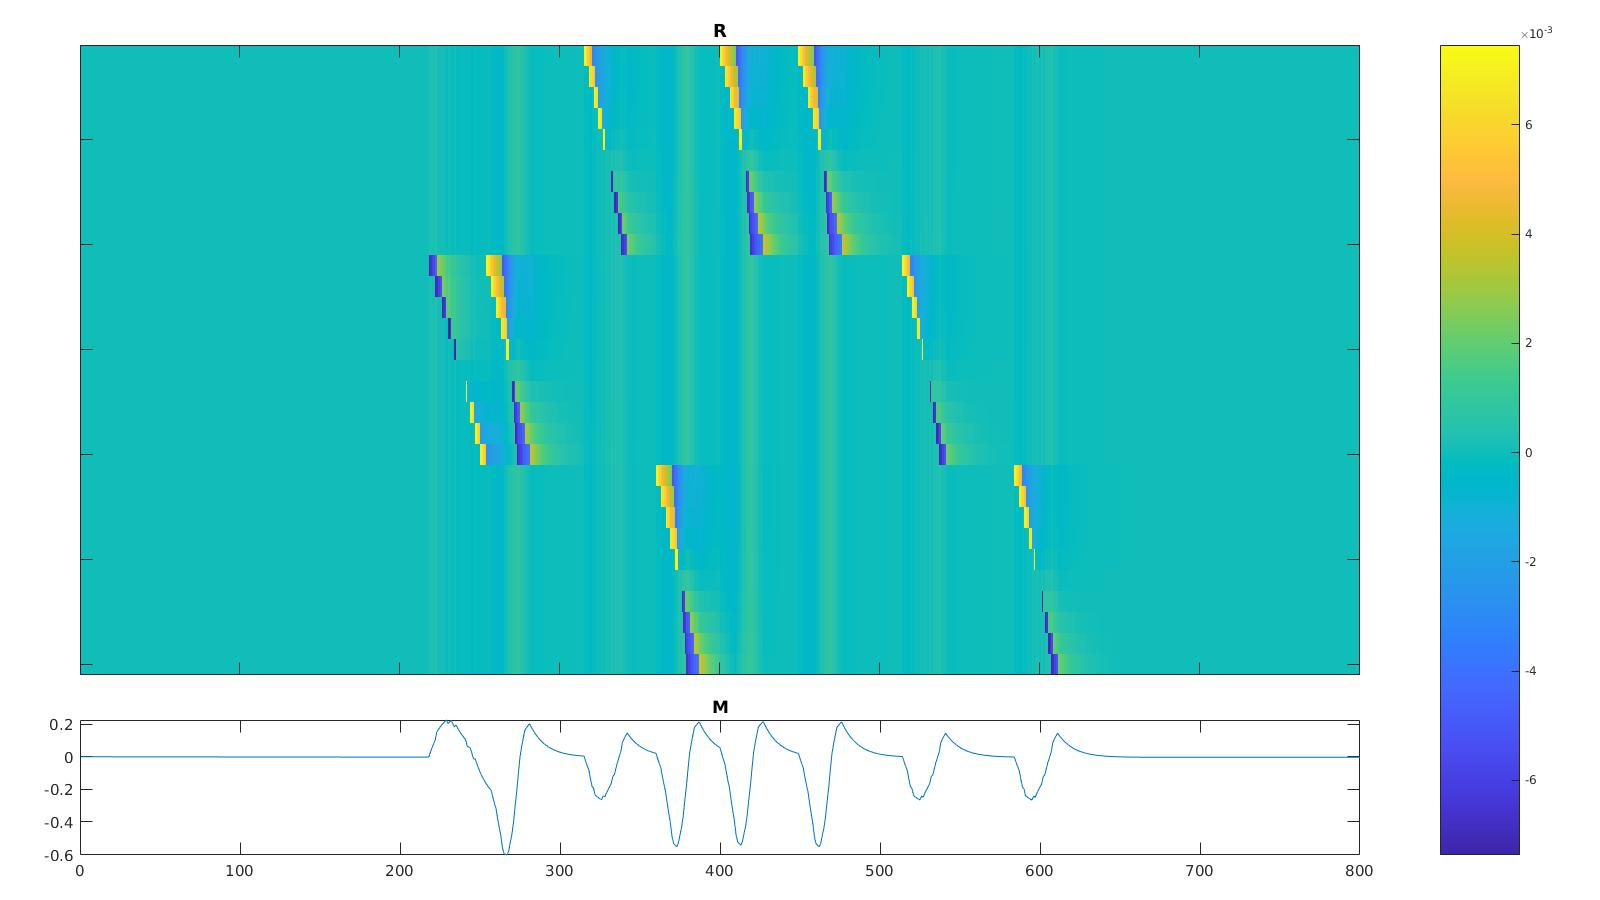
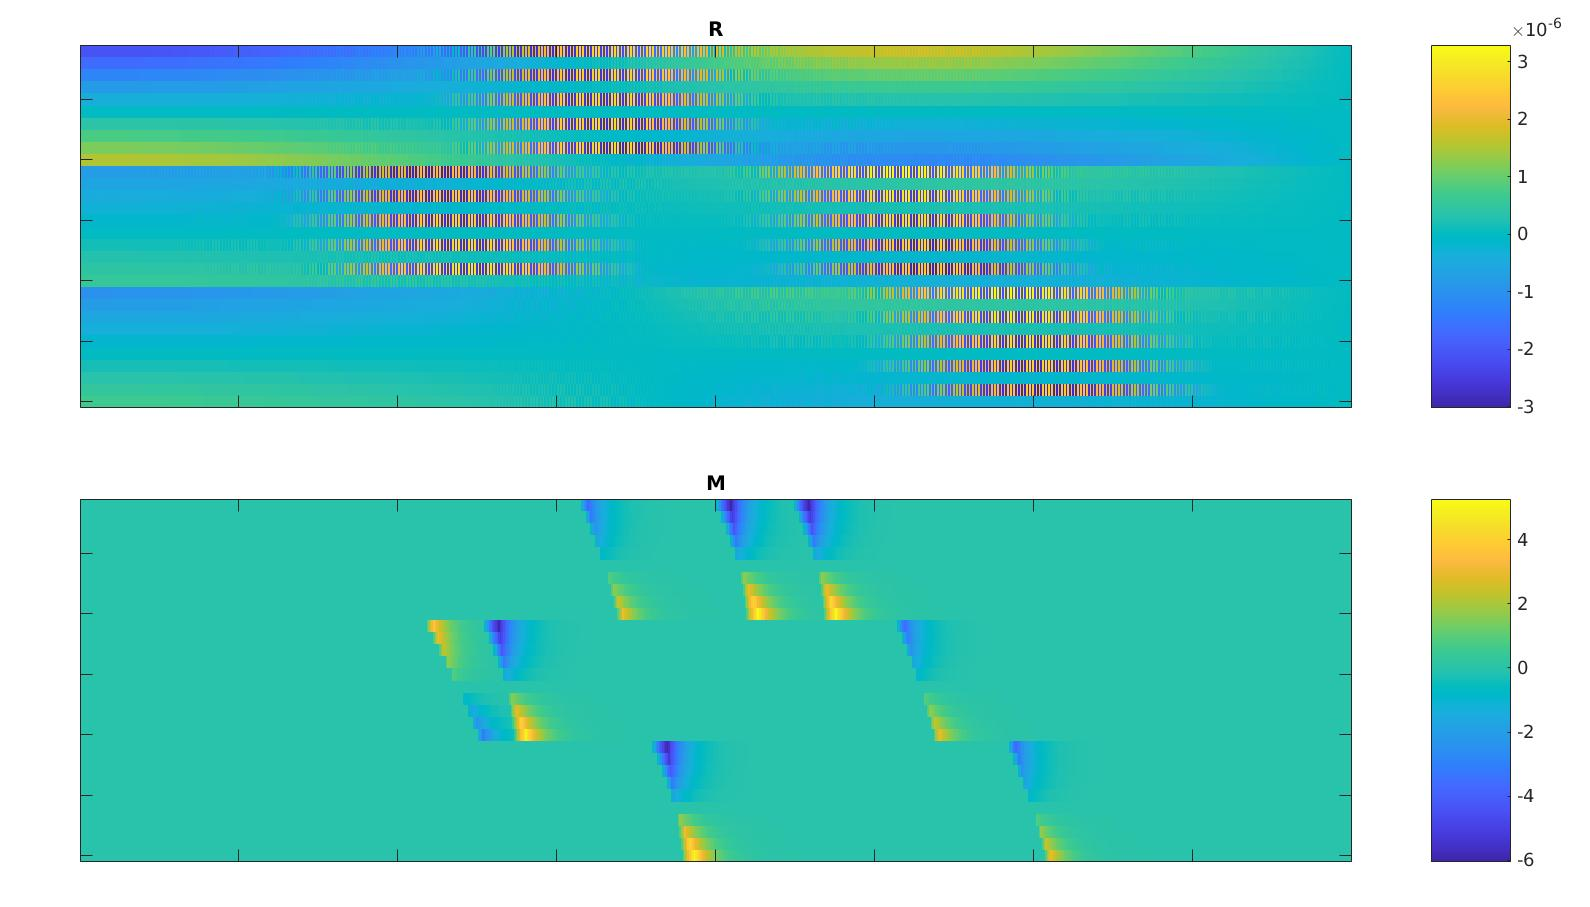
Fix EMD error, plot EMD vs jitter SD

diff --git a/EMD_demo.m b/EMD_demo.m
@@ -2,20 +2,22 @@ clear all
 close all
 root = fileparts(pwd);
 addpath(fullfile(root, 'TFOCS'))
+rmpath(genpath(fullfile(root, 'seqNMF-master')));
+addpath(genpath(fullfile(root, 'FlexMF')));
 %% Generate some synthetic data with temporal jittering or time warping
 number_of_seqences = 3;
 T = 800; % length of data to generate
 Nneurons = 10*ones(number_of_seqences,1); % number of neurons in each sequence
 Dt = 3.*ones(number_of_seqences,1); % gap between each member of the sequence
 NeuronNoise = 0.001; % probability of added noise in each bin
-SeqNoiseTime = 0.25*ones(number_of_seqences,1); % Jitter parameter = 25%
+SeqNoiseTime = 5*ones(number_of_seqences,1); % Jitter std
 SeqNoiseNeuron = 1.*ones(number_of_seqences,1); % Participation parameter = 100%
 stretch = 2; % stretch should be less than Dt
 neg = 0;
 bin = 0;
 [X, W, H, ~] = generate_data(T,Nneurons,Dt,NeuronNoise,zeros(number_of_seqences,1),SeqNoiseNeuron,0,bin,neg,1);
 [Xwarp, Wwarp, Hwarp, ~] = generate_data(T,Nneurons,Dt,NeuronNoise,zeros(number_of_seqences,1),SeqNoiseNeuron,stretch,bin,neg,1);
-[Xjit, Wjit, Hjit, ~] = generate_data(T,Nneurons,Dt,NeuronNoise,SeqNoiseNeuron,SeqNoiseNeuron,0,bin,neg,1);
+[Xjit, Wjit, Hjit, ~] = generate_data(T,Nneurons,Dt,NeuronNoise,SeqNoiseTime,SeqNoiseNeuron,0,bin,neg,1);
 L = size(W,3);
 range = round(L/2)-25:round(L/2)+35;
 
@@ -30,29 +32,31 @@ set(gcf,'position',[200,200,1600,900])
 opts_default = tfocs_SCD;
 opts = opts_default;
 opts.continuation = 1;
-opts.tol = 1e-4;
+opts.tol = 1e-6;
 opts.stopCrit = 4;
 opts.maxIts = 5000;
 
 mu = 1e6;
 N = size(X,1);
-A = @(Y, mode)Beckmann_UOT_constraint(N+1, T, Y, mode);
-W = @(Y, mode)Beckmann_UOT_obj(N+1, T, mu, Y, mode);
-b = Xwarp-X;
+A = @(Y, mode)Beckmann_UOT_constraint(N, T, Y, mode);
+W = @(Y, mode)Beckmann_UOT_obj(N, T, mu, Y, mode);
+% b = Xwarp-X;
+b = Xjit-X;
 [Y, out] = solver_sBPDN_W(A,W,b,0,1,[],[],opts);
 
-R = Y(2:N+1,:);
-M = Y(1,:);
+M = Y(1:N,:);
+R = Y(N+1:2*N,:);
 figure;
-ax_res = subplot('Position', [0.05, 0.25, 0.8, 0.7]);
+ax_res = subplot('Position', [0.05, 0.55, 0.8, 0.4]);
 imagesc(R)
-title('R', 'FontSize', 14)
+title('R', 'FontSize', 16)
 set(ax_res, 'XTickLabel', [], 'YTickLabel', []);
-colorbar('Position', [0.9 0.05 0.05 0.9]);
-ax_flux = subplot('Position', [0.05, 0.05, 0.8, 0.15]);
-plot(Y(1,:))
-title('M', 'FontSize', 14)
-set(ax_flux, 'FontSize',12);
+colorbar('Position', [0.9 0.55 0.05 0.4], 'FontSize', 14);
+ax_flux = subplot('Position', [0.05, 0.05, 0.8, 0.4]);
+imagesc(M)
+title('M', 'FontSize', 16)
+set(ax_flux, 'XTickLabel', [], 'YTickLabel', []);
+colorbar('Position', [0.9 0.05 0.05 0.4], 'FontSize', 14);
 set(gcf,'position',[200,200,1600,900])
 
 figure;
@@ -60,3 +64,50 @@ plot(out.f)
 title('out.f')
 
 emd = norm(M(:),1)+mu*norm(R(:),1)
+
+% Check constraint
+D = eye(T) - diag(ones(T-1,1),-1);
+C = M*D'-R-b;
+figure;
+imagesc(C)
+set(gca, 'XTickLabel', [], 'YTickLabel', []);
+colorbar
+
+%% EMD vs different levels of jittering
+number_of_seqences = 3;
+T = 800; % length of data to generate
+Nneurons = 10*ones(number_of_seqences,1); % number of neurons in each sequence
+Dt = 3.*ones(number_of_seqences,1); % gap between each member of the sequence
+NeuronNoise = 0.001; % probability of added noise in each bin
+SeqNoiseNeuron = 1.*ones(number_of_seqences,1); % Participation parameter = 100%
+neg = 0;
+bin = 0;
+[X, W, H, ~] = generate_data(T,Nneurons,Dt,NeuronNoise,zeros(number_of_seqences,1),SeqNoiseNeuron,0,bin,neg,1);
+L = size(W,3);
+
+opts_default = tfocs_SCD;
+opts = opts_default;
+opts.continuation = 1;
+opts.tol = 1e-6;
+opts.stopCrit = 4;
+opts.maxIts = 5000;
+
+mu = 1e6;
+N = size(X,1);
+A = @(Y, mode)Beckmann_UOT_constraint(N, T, Y, mode);
+W = @(Y, mode)Beckmann_UOT_obj(N, T, mu, Y, mode);
+
+for j=1:5
+    SeqNoiseTime = j*ones(number_of_seqences,1); % Jitter std
+    [Xjit, Wjit, Hjit, ~] = generate_data(T,Nneurons,Dt,NeuronNoise,SeqNoiseTime,SeqNoiseNeuron,0,bin,neg,1);
+    b = Xjit-X;
+    [Y, out] = solver_sBPDN_W(A,W,b,0,1,[],[],opts);
+    M = Y(1:N,:);
+    R = Y(N+1:2*N,:);
+    EMDs(j) = norm(M(:),1)+mu*norm(R(:),1);
+end
+
+figure;
+plot(1:5, EMDs)
+ylabel('EMD')
+xlabel('Jitter SD')

diff --git a/Beckmann_UOT_obj.m b/Beckmann_UOT_obj.m
@@ -1,18 +1,18 @@
-function y = Beckmann_UOT_obj(K, T, mu, X, mode)
+function y = Beckmann_UOT_obj(N, T, mu, X, mode)
 % The linear operator for the objective function of unbalanced EMD
-% X = [M^T; R]
-% A(X) = [M^T; mu*R]
-% A*(y) = [y1; mu*y2]
+% X = [M; R] size 2N*T
+% A(X) = [M; mu*R]
+% A*(Y) = [Y1; mu*Y2]
 
 switch mode
     case 0
-        y = {[K,T], [K,T]};
+        y = {[2*N,T], [2*N,T]};
     case 1
-        y = zeros(K, T);
-        y(1, :) = X(1, :);
-        y(2:end, :) = mu*X(2:end, :);
+        y = zeros(2*N, T);
+        y(1:N, :) = X(1:N, :);
+        y(N+1:end, :) = mu*X(N+1:end, :);
     case 2
-        y = zeros(K, T);
-        y(1, :) = X(1, :);
-        y(2:end, :) = mu*X(2:end, :);
+        y = zeros(2*N, T);
+        y(1:N, :) = X(1:N, :);
+        y(N+1:end, :) = mu*X(N+1:end, :);
 end

diff --git a/Beckmann_UOT_constraint.m b/Beckmann_UOT_constraint.m
@@ -1,19 +1,19 @@
-function y = Beckmann_UOT_constraint(K, T, X, mode)
+function y = Beckmann_UOT_constraint(N, T, X, mode)
 % The linear operator for the constraint of unbalanced EMD
-% X = [M^T; R]
-% A(X) = [DM';DM';...;DM']-R
-% A*(y) = [sum_i(yi*D);y1;y2;...;yk]
+% X = [M; R] size 2N*T
+% A(X) = MD'-R
+% A*(y) = [YD;-Y]
 % divergence matrix
 D = eye(T) - diag(ones(T-1,1),-1);
 switch mode
     case 0
-        y = {[K,T], [K-1,T]};
+        y = {[2*N,T], [N,T]};
     case 1
-        M = X(1,:)';
-        R = X(2:end,:);
-        y = repmat((D*M)', K-1, 1)-R;
+        M = X(1:N,:);
+        R = X(N+1:end,:);
+        y = M*D'-R;
     case 2
-        y = zeros(K, T);
-        y(1, :) = sum(X,1)*D;
-        y(2:end, :) = -X;
+        y = zeros(2*N, T);
+        y(1:N,:) = X*D;
+        y(N+1:end,:) = -X;
 end
